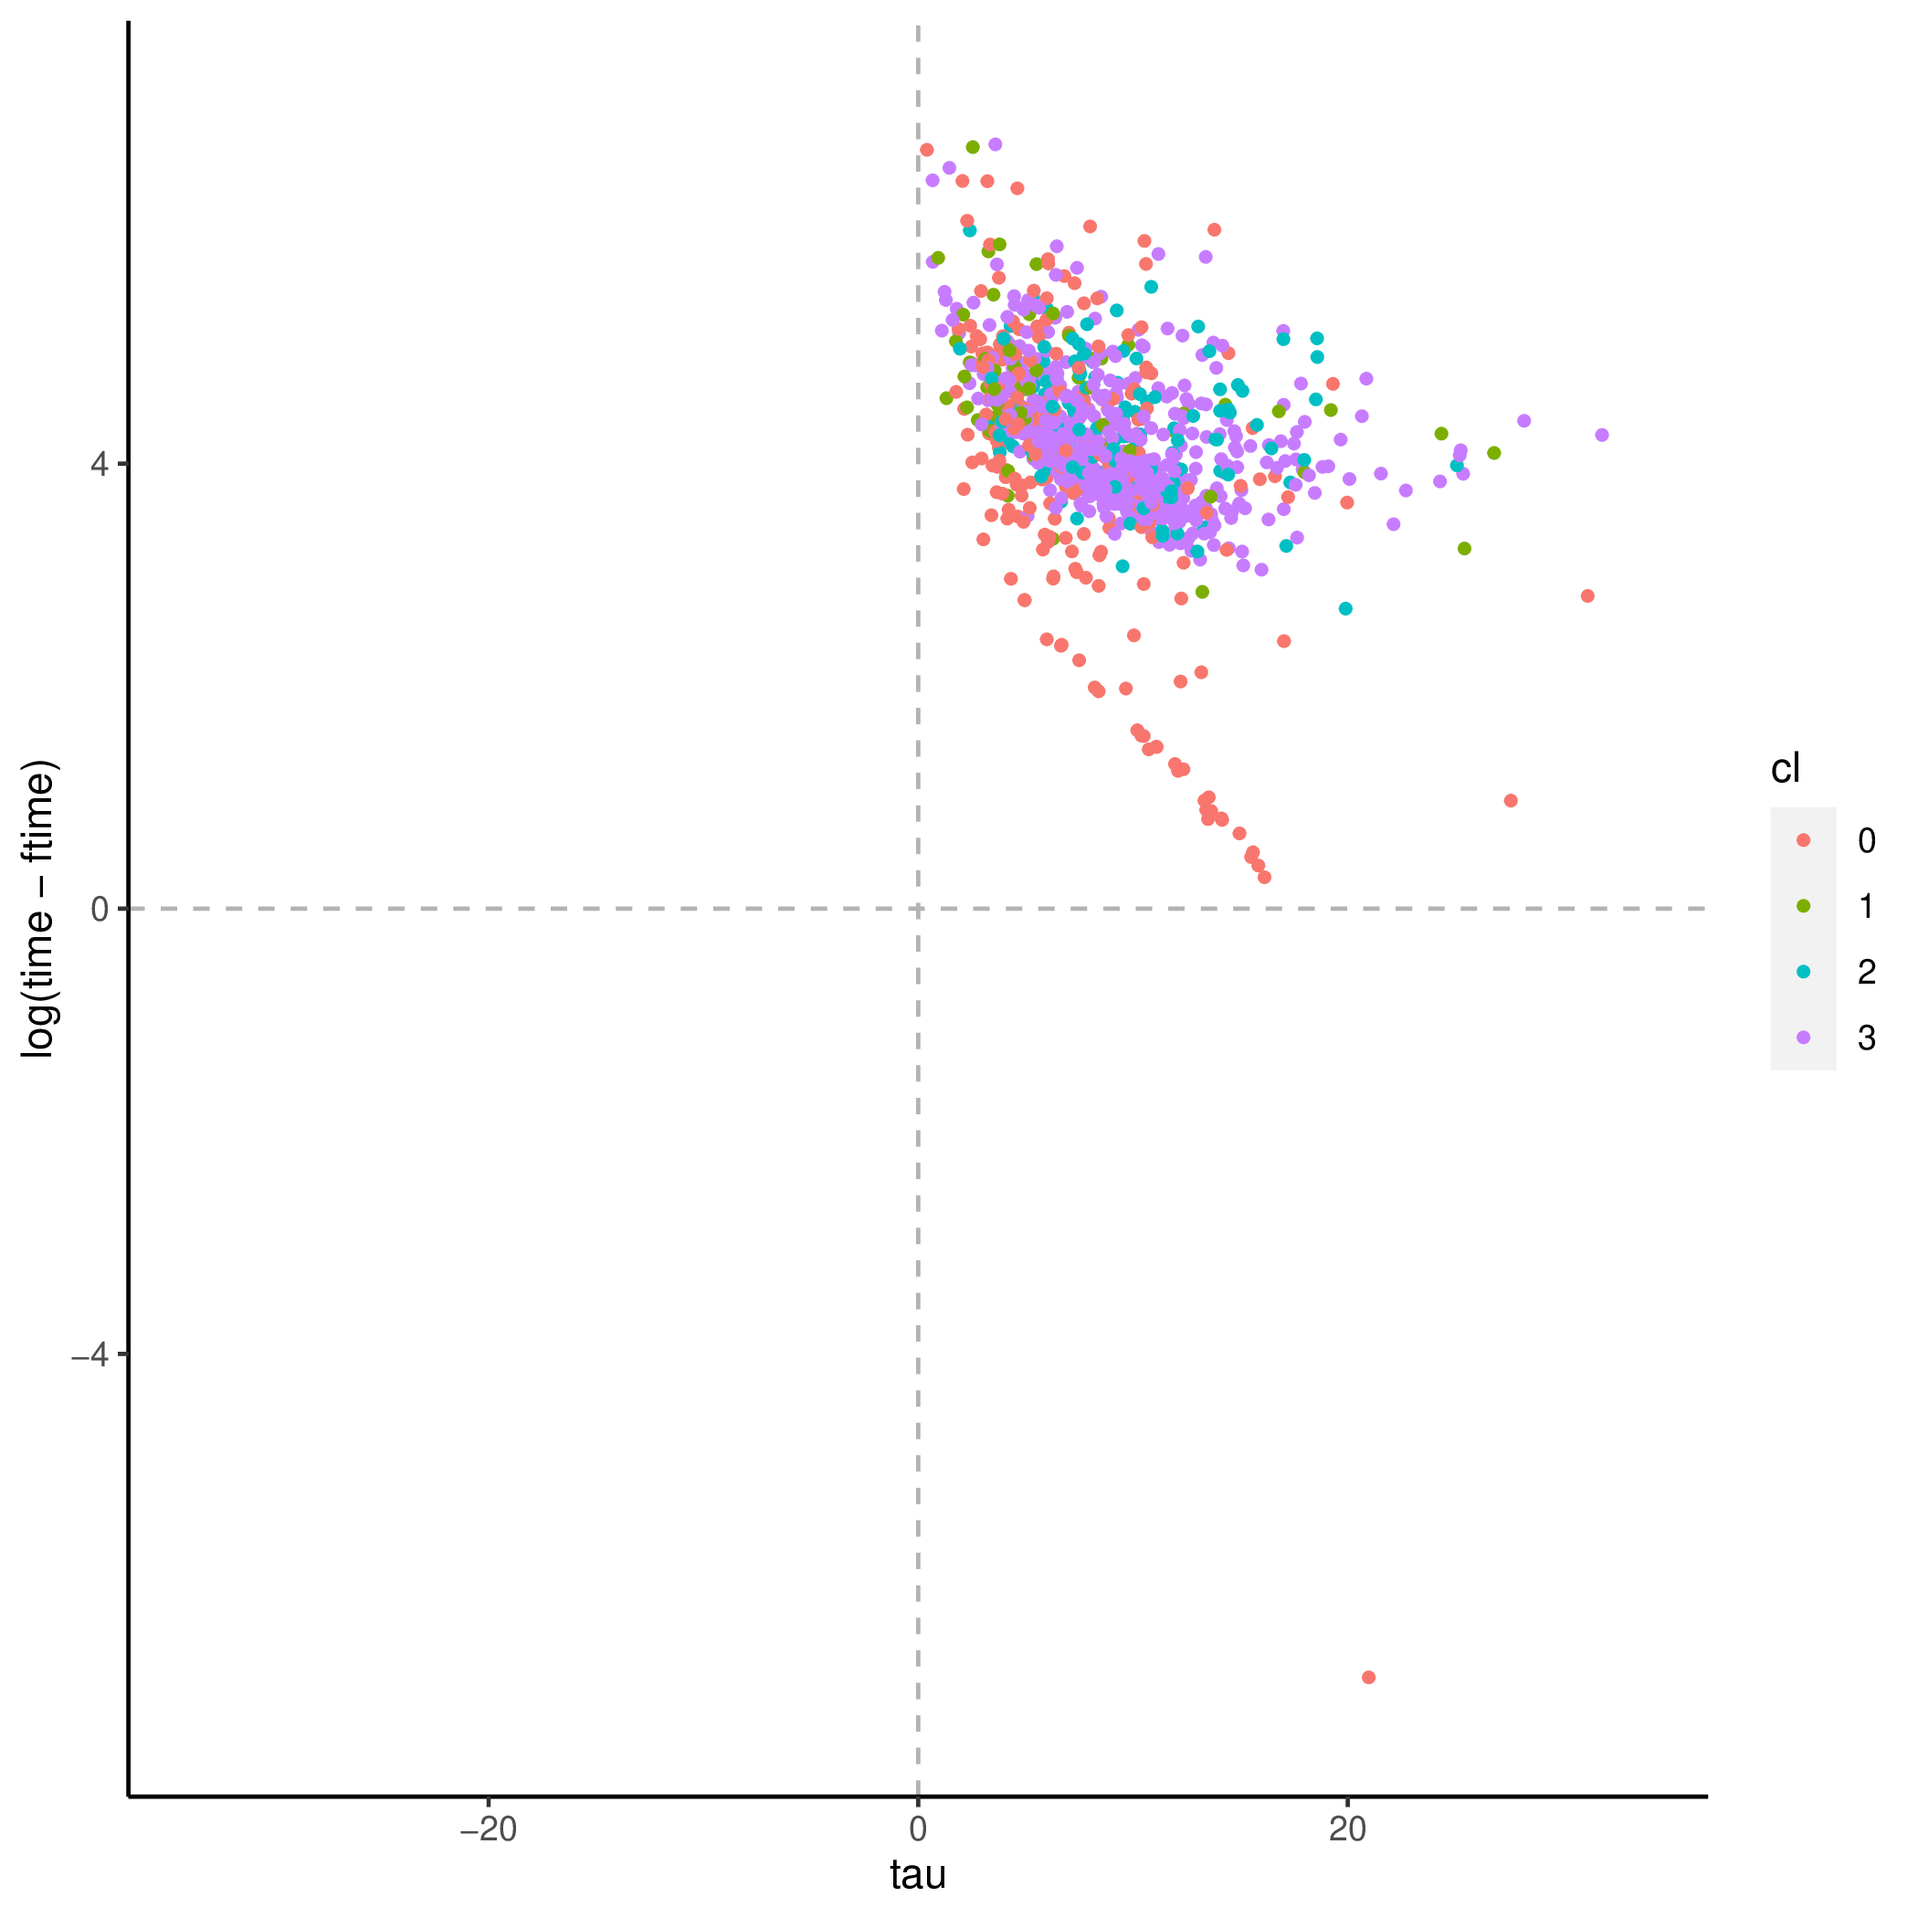
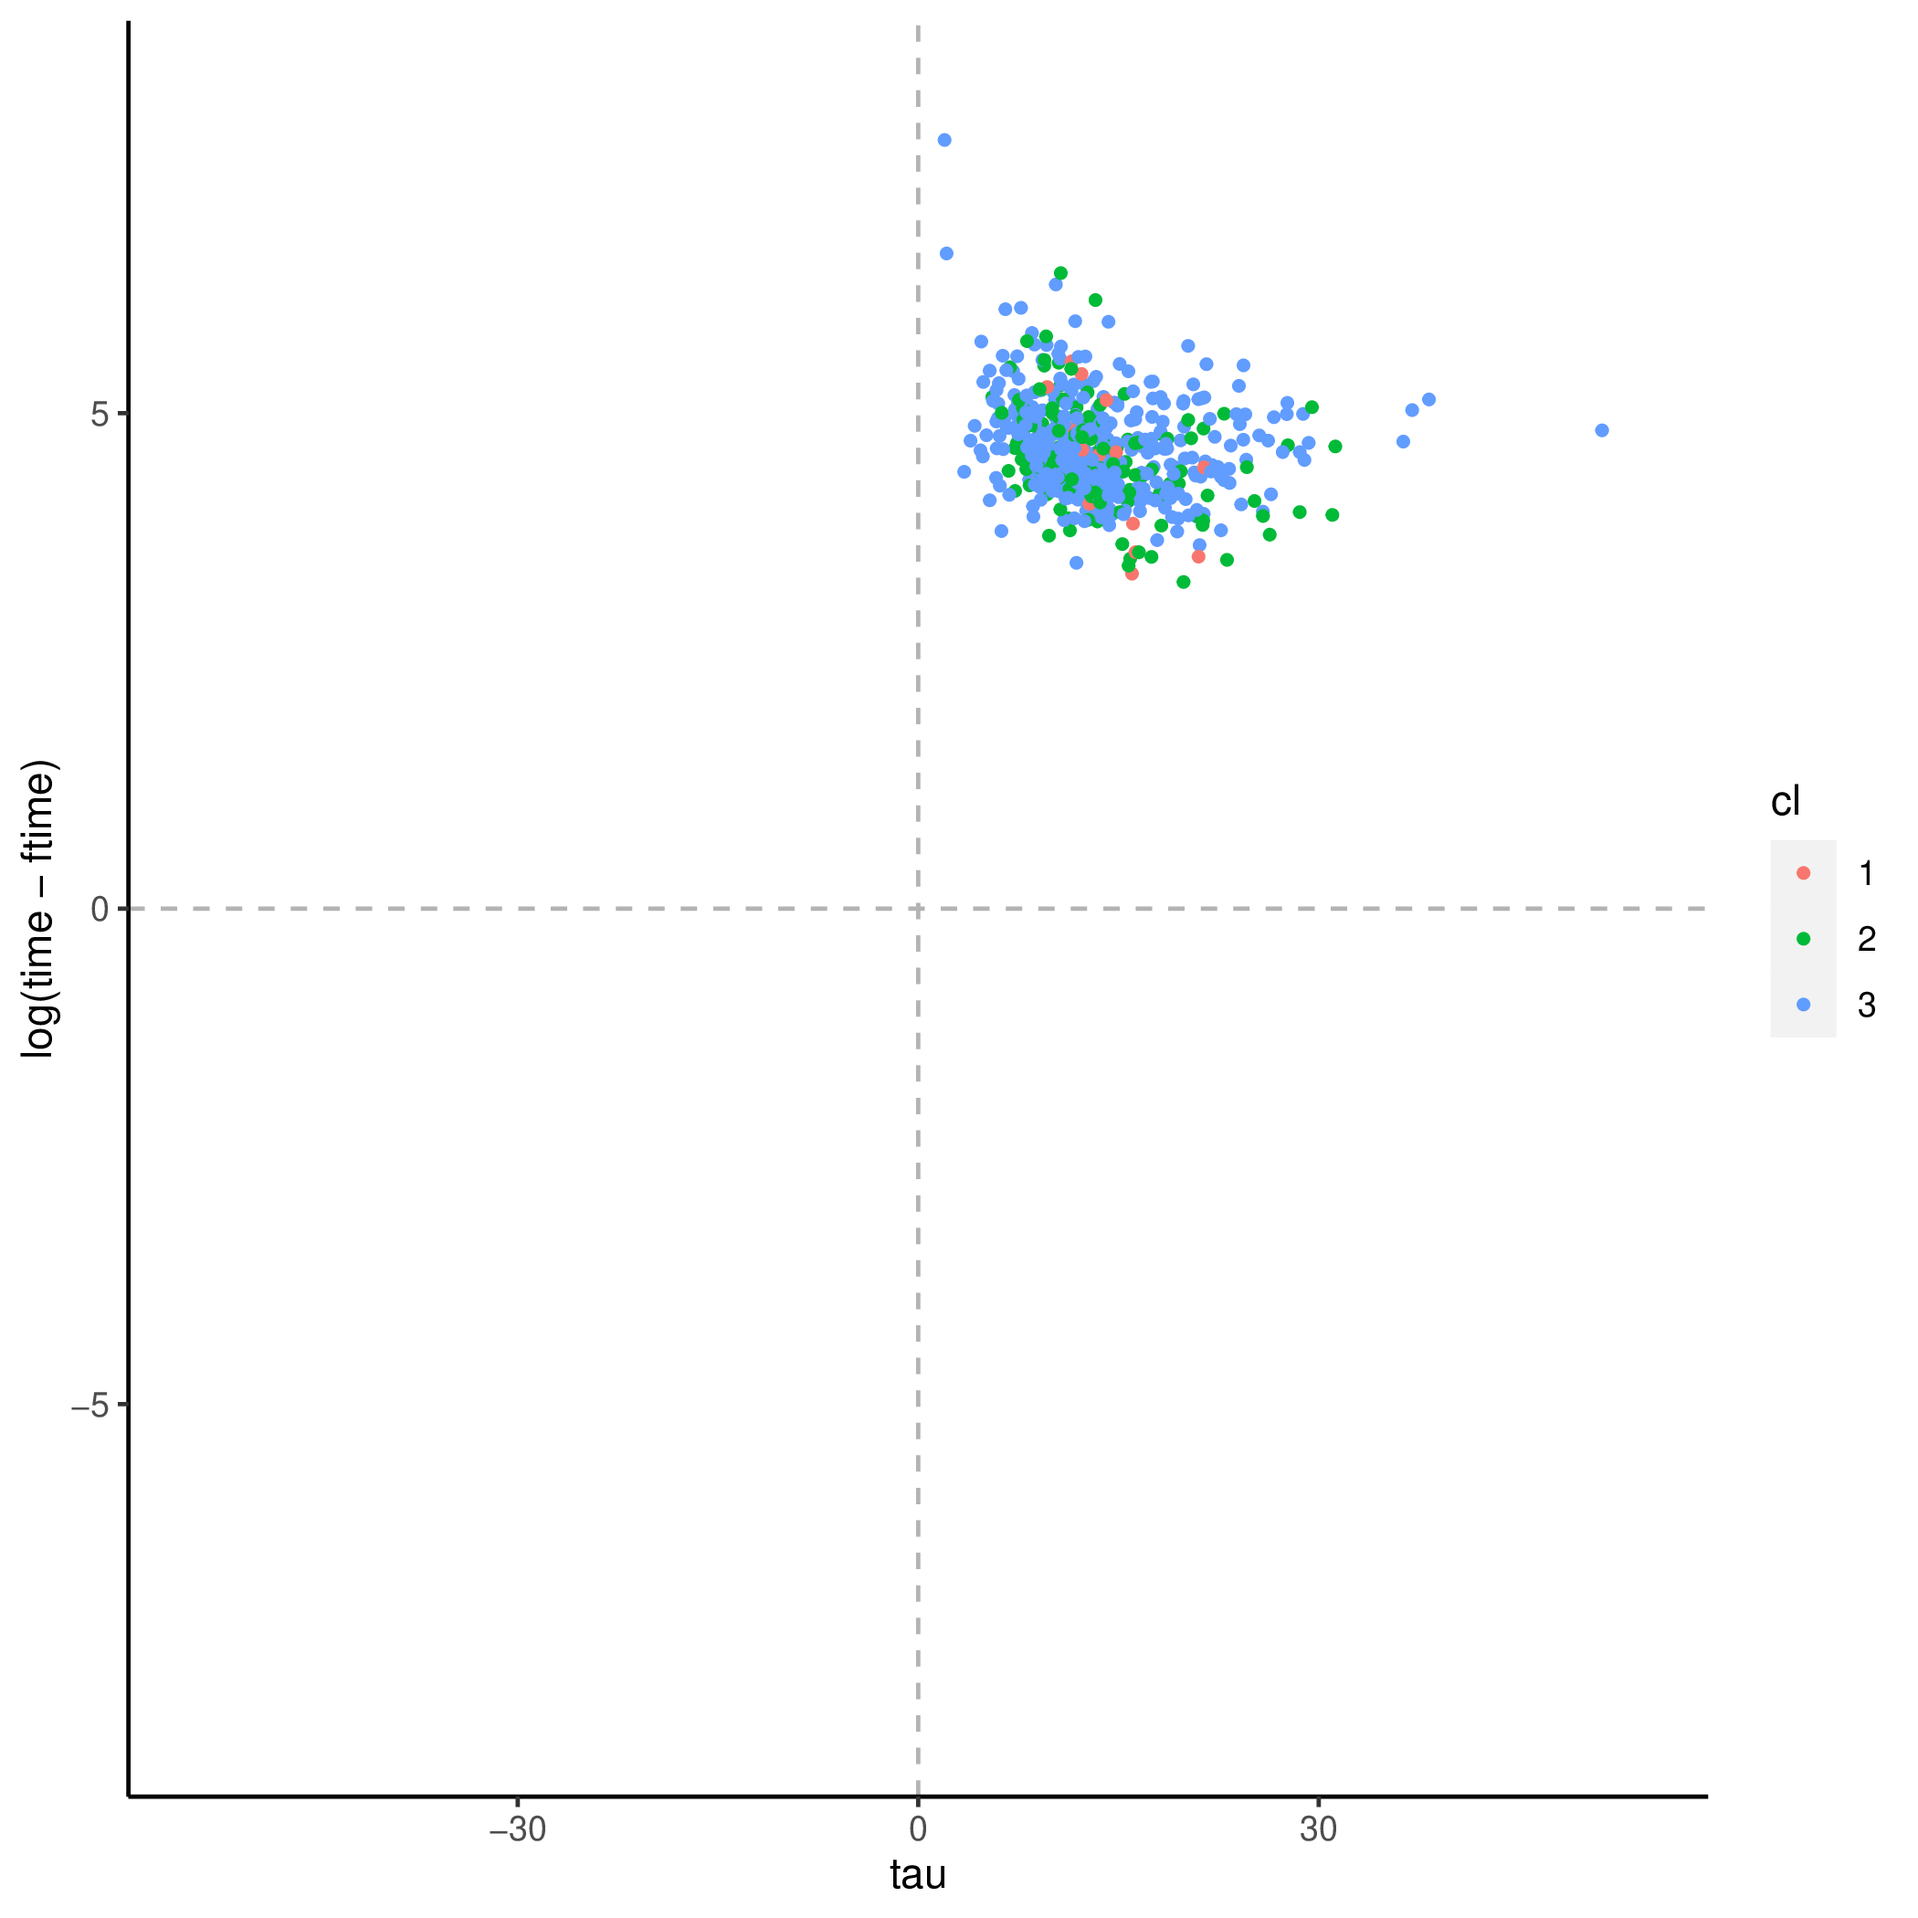
pushing changes 2021-09-14 15:07:25 CDT

diff --git a/docs/content/piacc/item_results/party_invitations-1/_index.md b/docs/content/piacc/item_results/party_invitations-1/_index.md
@@ -1,11 +1,12 @@
 +++
 title = "party_invitations-1"
 author = ["Jonghyun Yun"]
-lastmod = 2021-09-14T12:02:39-05:00
+lastmod = 2021-09-14T15:07:25-05:00
 draft = false
 +++
 
 ![](figure/theta_tau_res.png)
+![](figure/tau_action.png)
 ![](figure/time_action-3.png)
 ![](figure/time_action_more-2.png)
 ![](figure/time_action_more-5.png)
